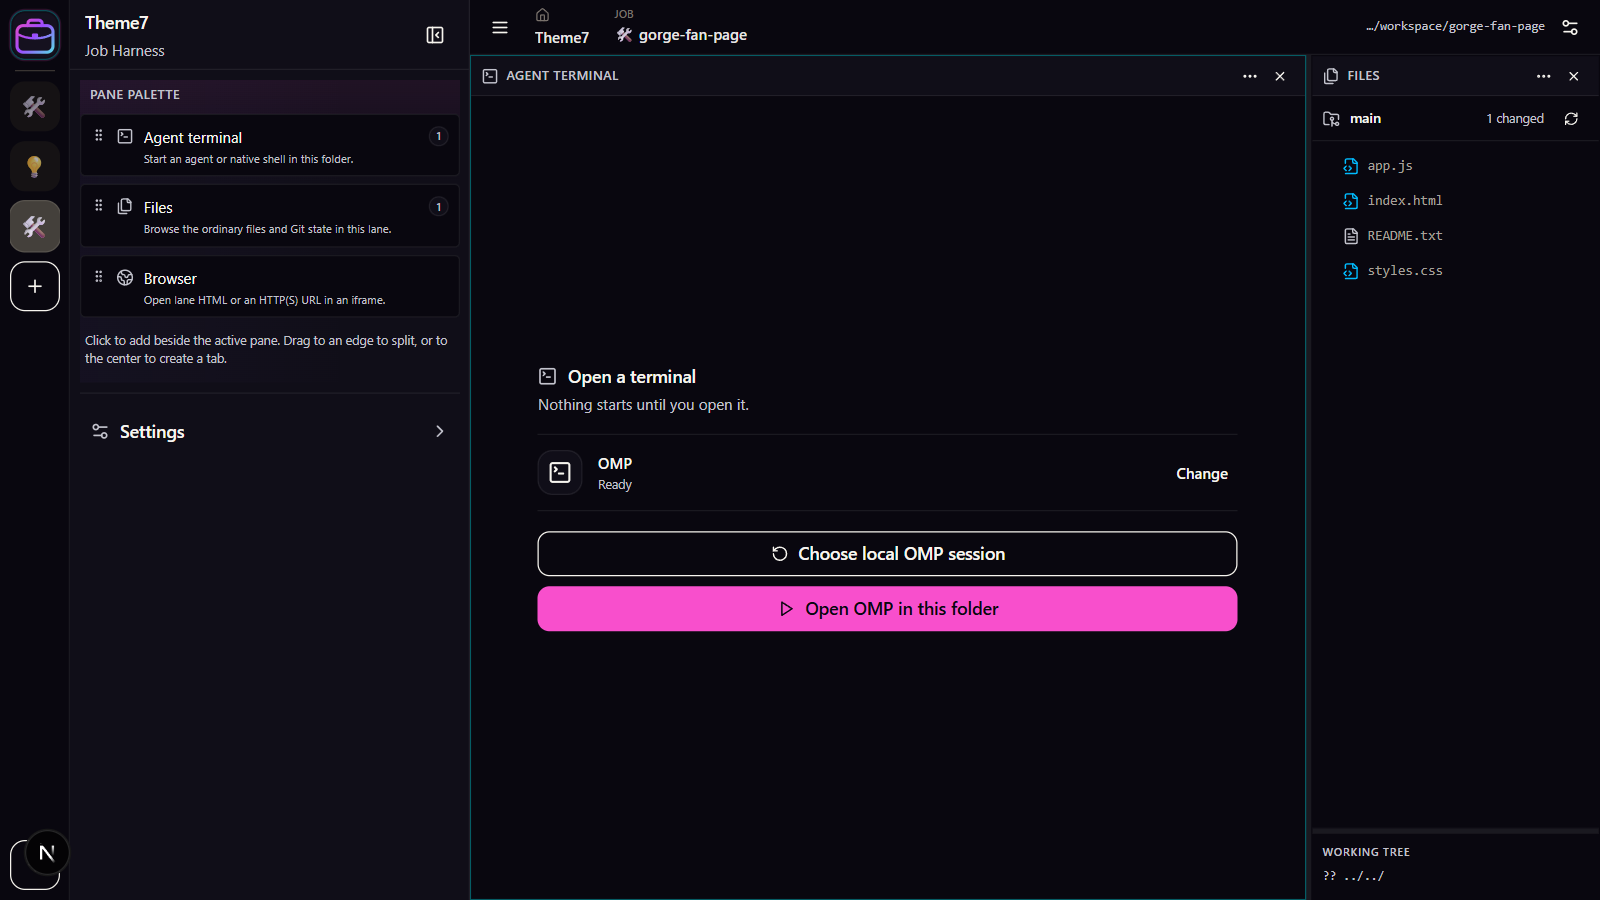
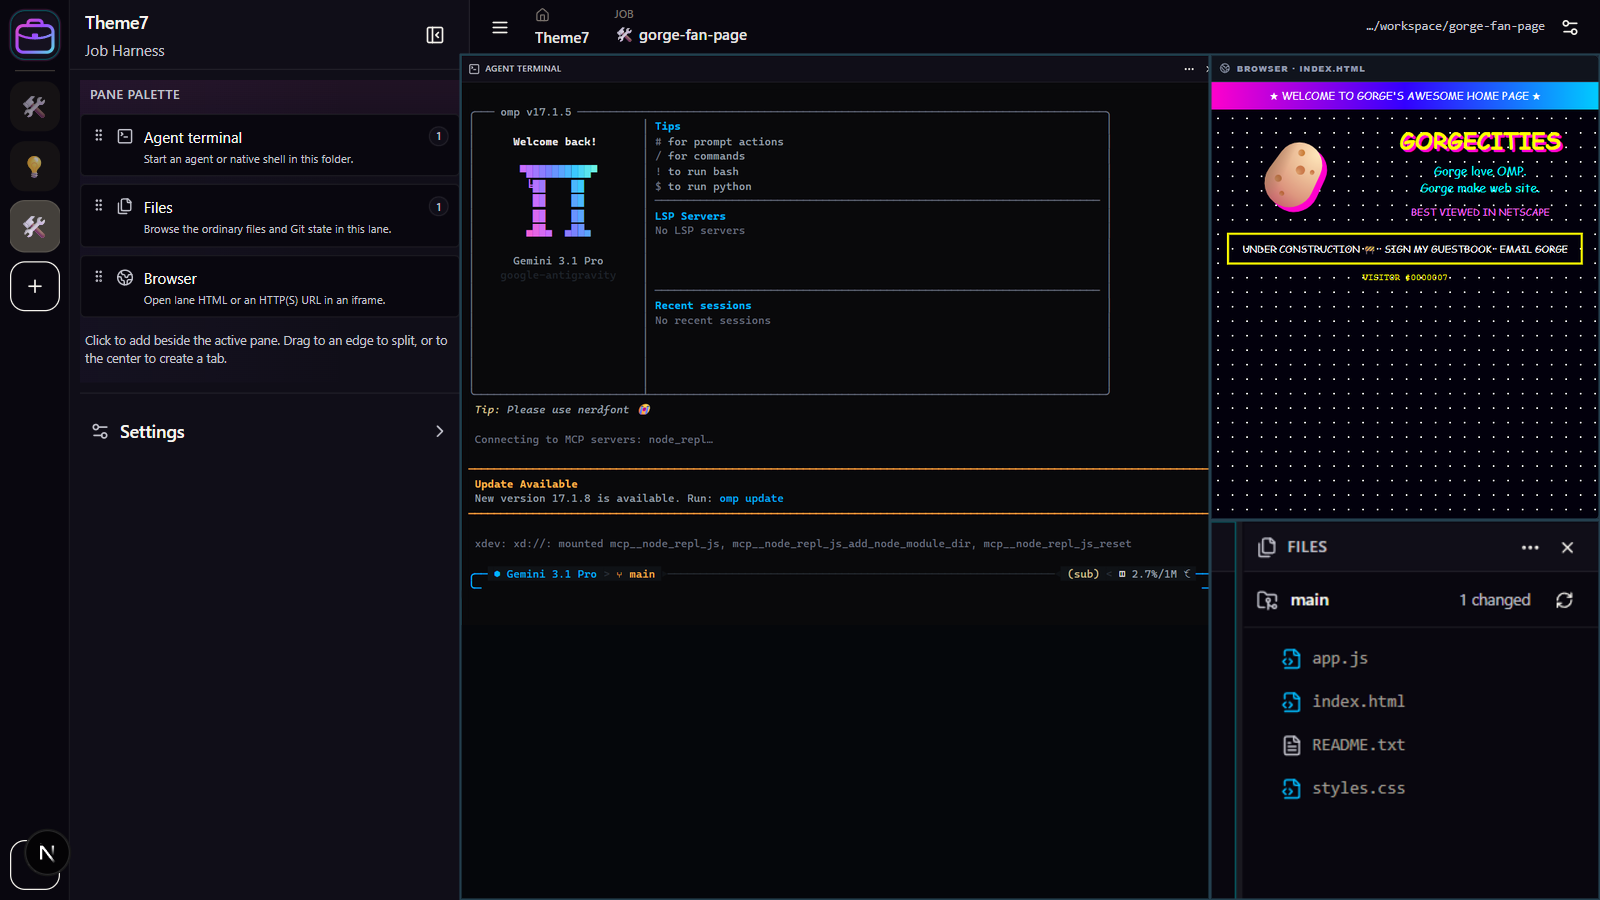
Show OMP and GorgeCities in Theme7 README

diff --git a/README.md b/README.md
@@ -2,8 +2,4 @@
 
 gorge simple worker. want simple things
 
-![theme7 job workspace](media/theme7-workspace.png)
-
-[![watch gorge](media/gorge-finds-omp-theme7-preview.gif)](media/gorge-finds-omp-theme7.mp4)
-
-[play gorge](media/gorge-finds-omp-theme7.mp4)
+![theme7 with OMP, GorgeCities, and Files](media/theme7-workspace.png)
